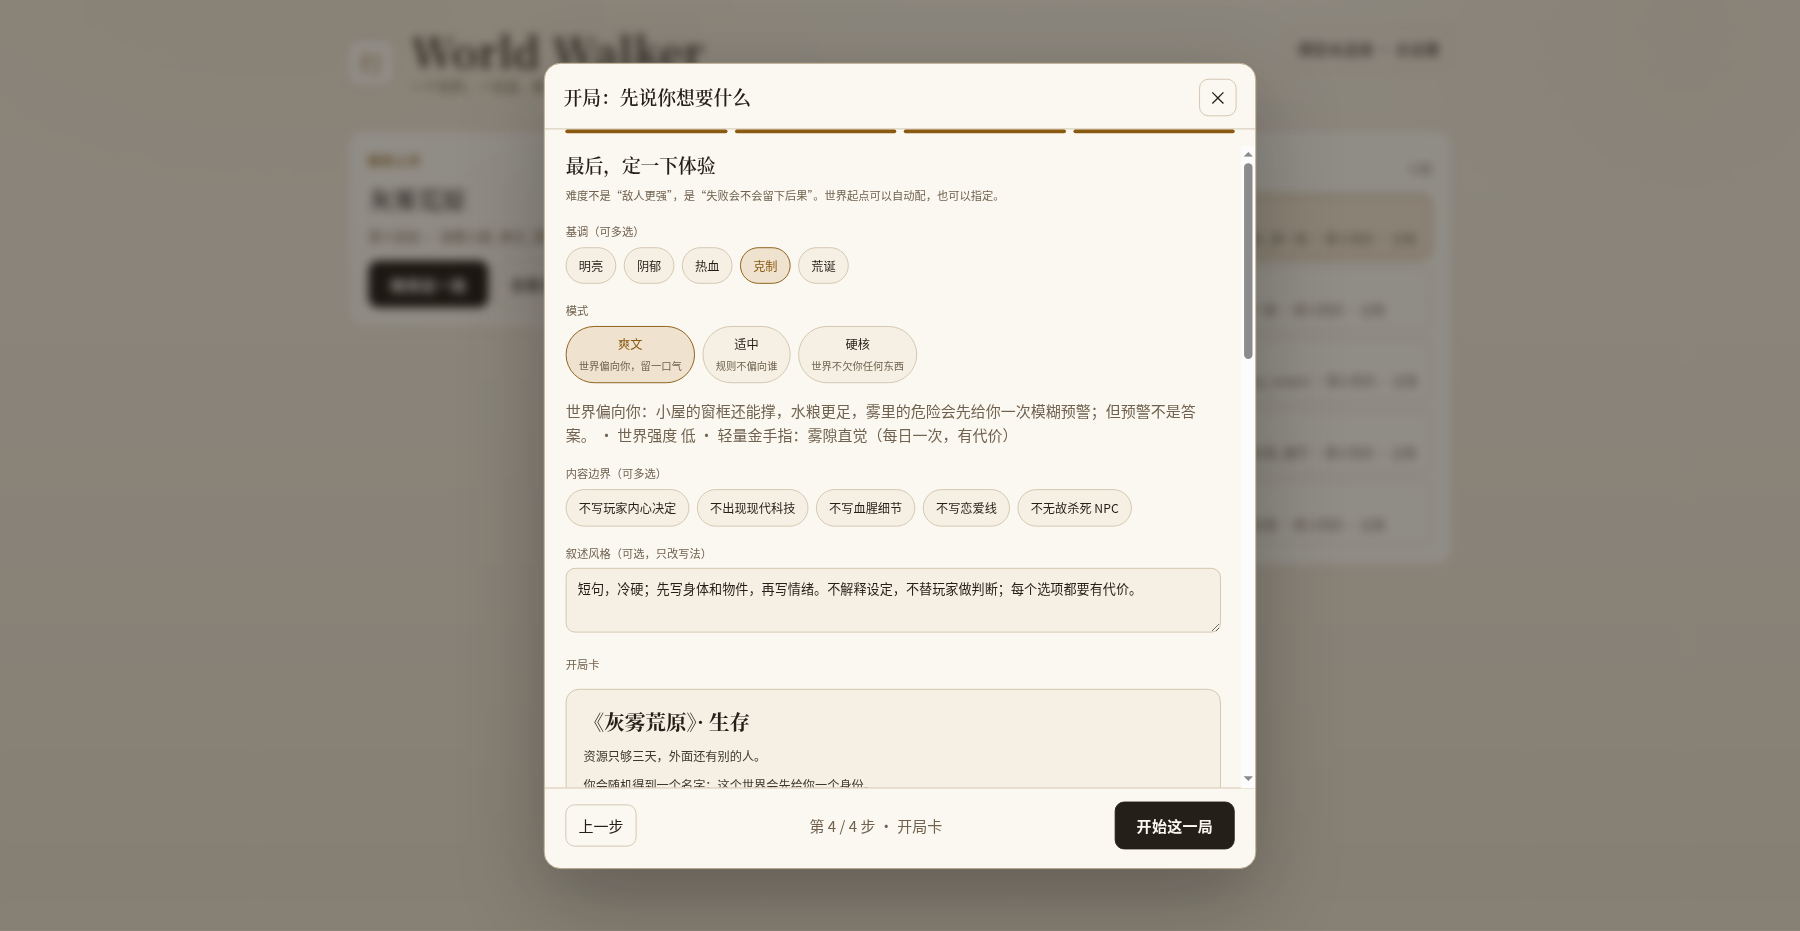
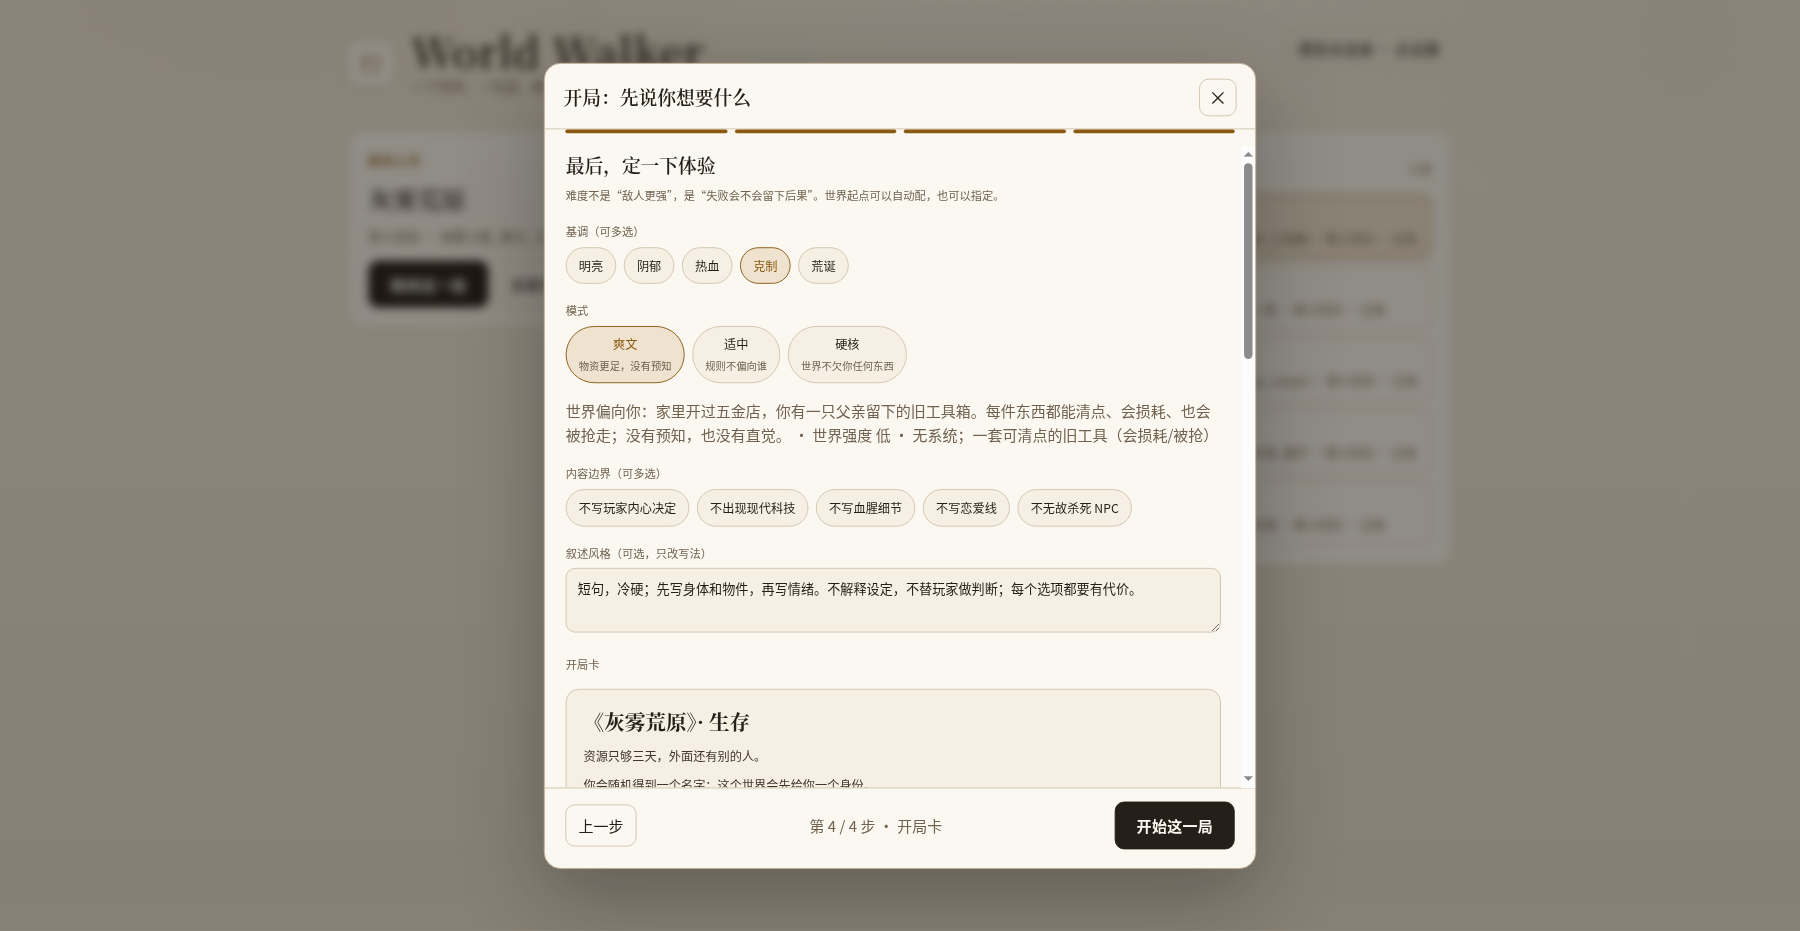
fix: replace fog talent with count-it-yourself toolkit

Changed region(s): [[0.3111, 0.4361, 0.6844, 0.4984], [0.3111, 0.3426, 0.4978, 0.4049]]

diff --git a/panel.js b/panel.js
@@ -126,7 +126,7 @@
     tones: ["明亮", "阴郁", "热血", "克制", "荒诞"],
     difficulties: ["轻松", "标准", "硬核", "铁人"],
     modes: [
-      { id: "power", label: "爽文", short: "世界偏向你", description: "起始资源更足，压力更慢，有一次轻量金手指。" },
+      { id: "power", label: "爽文", short: "世界偏向你", description: "起始物资更足；所有加成都是可清点的实物，没有预知/直觉/必中。" },
       { id: "balanced", label: "适中", short: "规则不偏向谁", description: "资源、威胁和成长按设定走。" },
       { id: "hardcore", label: "硬核", short: "世界不欠你", description: "资源更紧，死亡不可复活。" },
     ],

diff --git a/rules/modes.py b/rules/modes.py
@@ -18,11 +18,11 @@ MODE_SPECS = {
     "power": {
         "id": "power",
         "label": "爽文",
-        "short": "世界偏向你，留一口气",
-        "description": "起始资源更足，压力钟更慢，失败通常留一口气；每局有一次符合世界设定的轻量金手指。仍然会饿、会冷、会受伤。",
+        "short": "物资更足，没有预知",
+        "description": "前两类主耗材 +50%，口粮钱 +50%，物价 -15%，库存 +2，压力钟 -1；失败通常留一口气。所有好处都是可清点的实物：会吃掉、烧掉、用坏或被抢走。",
         "world_intensity": "低",
         "play_style": "爽文推进",
-        "system_strength": "轻量金手指（每局一次，有代价）",
+        "system_strength": "无系统；可清点的起始物资（会损耗/被抢）",
         "death_rule": "重伤留一口气，不直接抹掉角色",
         "resource_curve": "宽裕",
         "encounter_pressure": "低",
@@ -33,8 +33,8 @@ MODE_SPECS = {
         "clock_delta": -1,
         "price_mult": 0.85,
         "supply_delta": 2,
-        "edge": "气运偏斜：每局一次，可以把一次失败改写成‘差一点成功’，但会在现场留下痕迹。",
-        "narrative_rule": "给玩家留退路：失败先给代价和转机，不连续下死手；金手指只兑现一次，兑现后必须留下可追踪的痕迹。",
+        "edge": "起始前两类主耗材 +50%，口粮钱 +50%，物价 -15%、库存 +2；没有预知、直觉、读心或必中。",
+        "narrative_rule": "给玩家留退路：失败先给代价和转机，不连续下死手；爽文加成只能落在可清点的物资、价格、库存和耐久上，不给预知/直觉/读心/必中。",
     },
     "balanced": {
         "id": "balanced",
@@ -232,10 +232,11 @@ def apply(state: dict, bundle: dict | None = None, mode=None) -> dict:
                 continue
 
     flags = [str(f) for f in (state.get("world_flags") or [])
-             if not str(f).startswith("mode:")]
+             if not str(f).startswith("mode:")
+             and str(f) not in ("hardcore", "no_cheat", "no_respawn", "mild_cheat")]
     flags.append("mode:" + key)
     if key == "hardcore":
-        flags.extend(["no_respawn", "no_cheat"])
+        flags.extend(["hardcore", "no_respawn", "no_cheat"])
     elif key == "power":
         flags.append("mild_cheat")
     state["world_flags"] = flags

diff --git a/scripts/verify_settings.py b/scripts/verify_settings.py
@@ -69,8 +69,14 @@ def main():
         with open(fog, encoding='utf-8') as f:
             fog_bundle = json.load(f)
         fog_power = SL.build_state(fog_bundle, mode='power')
-        check('迷雾小屋·爽文模式有世界专属轻量金手指', '雾隙直觉' in (fog_power.get('mode') or {}).get('edge', ''),
-              (fog_power.get('mode') or {}).get('edge', '')[:40])
+        edge = (fog_power.get('mode') or {}).get('edge', '')
+        items = fog_power['entities']['player'].get('items') or {}
+        check('迷雾小屋·爽文模式给可清点的实用工具箱',
+              '旧五金工具箱' in edge and '4块' in edge and '16枚' in edge
+              and items.get('plank') == 4 and items.get('nails') == 16
+              and items.get('hinge') == 1 and items.get('rope') == 1
+              and items.get('lighter') == 1 and items.get('thermo') == 1,
+              '%s ｜ items=%s' % (edge[:36], sorted(items)))
 
     tmp = tempfile.mkdtemp(prefix='ww-settings-')
     for fn in files:

diff --git a/settings_loader.py b/settings_loader.py
@@ -333,7 +333,9 @@ def apply_runtime_fields(state: dict, bundle: dict) -> int:
             except ValueError as exc:
                 raise ValueError("systems 定义非法: %s" % exc)
             defs[normalized["id"]] = normalized
-    if bundle.get("gameplay"):
+    if bundle.get("gameplay") and not isinstance(state.get("mode"), dict):
+        # 模式建局时，gameplay 已经按爽文/硬核调过压力钟；
+        # 再按原始 bundle 归一化一次会把 -1/+1 抹掉（实测爽文档雾潮会回到 1）。
         state["gameplay"] = gameplay_rules.normalize(
             bundle["gameplay"], narrative=state.get("narrative"), bundle=bundle)
     if bundle.get("currency"):

diff --git a/settings/README.md b/settings/README.md
@@ -28,7 +28,7 @@ load_setting(path="settings/玄枢界.setting.json")     # 世界 + 人物 + 市
 | `places` | | 地点描写 `{地名: {desc}}` 或 `{地名: "描写"}`。走到该地时面板主舞台显示它，而不是开场那句 |
 | `lore` | | 世界书条目，**与酒馆 character_book 同形**：`keys` / `secondary_keys` / `selective` / `constant` / `insertion_order` / `content` / `comment`。`narration_context` 按关键词触发它们 |
 | `playbook` | | 玩法剧本 `{loop, input, progress, failure, beat, settlement, context}`；决定这一局"怎么玩"（详见 `docs/MCP_PLAY.md`）。缺省为自由推进 + 气血失败 |
-| `modes` | | 三模式的世界专属覆盖：`{power:{edge,description,start_items,start_gold}, balanced:{...}, hardcore:{...}}`；爽文只给轻量金手指，硬核不可复活 |
+| `modes` | | 三模式的世界专属覆盖：`{power:{edge,description,start_items,start_gold}, balanced:{...}, hardcore:{...}}`；爽文只给可清点的物资/价格/库存，且会损耗或被抢；硬核不可复活 |
 | `gameplay` | | 场景契约 `{acts, clocks, fronts, choice_policy, progression, session}`：3 幕、压力钟、隐藏前线、每场选择必须付代价。缺省退回三幕骨架，不会空白 |
 | `questlines` | | 事业线数组（stage DAG + 谓词 + 奖励）。载入时校验环与幽灵 next；未满足 `visibility` 的线保持 dormant，不占面板 |
 | `seed` | | 随机种子（可复现） |
@@ -44,7 +44,7 @@ load_setting(path="settings/玄枢界.setting.json")     # 世界 + 人物 + 市
 | `雾港.setting.json` | 调查悬疑 | 六阶（外行→传奇） | 法币 | 9 条 | 线索链与理智消耗、克苏鲁式"越查越冷" |
 | `白鹿岛.setting.json` | 全民穿越 / 海岛求生 | 六阶生存评级 + 17×5 载具阶位 | 潮币 | 首批 100 万人同时投放；普通充气救生筏即唯一初始基地（无甲板/无初始岛）；潮汐礁安全窗；系统引导/任务/活动/能力；17 大品阶×5 细分阶共 85 级 | 普通大学生在漏气救生筏上醒来；救生筏开局、手环面板、分解系、修筏、扩载具、雾墙、夜潮与邻岛主岛 |
 | `九荒.setting.json` | 修仙 / 凡人流 | 十阶（凡人→渡劫） | 碎银 | 8 条 | 普通大学生坠入古仙坟场：无系统、骨片读残念、青岚宗测骨、裂谷与失踪同学 |
-| `迷雾小屋.setting.json` | 迷雾求生 / 三模式生存 | 六阶据点稳固度 | 口粮 | 9 条 | 爽文给「雾隙直觉」轻量金手指，适中按规则，硬核无金手指/永久死亡；桦木小屋开局，补窗、烧水、守门、雾潮与邻屋 |
+| `迷雾小屋.setting.json` | 迷雾求生 / 三模式生存 | 六阶据点稳固度 | 口粮 | 9 条 | 爽文给一套可清点的旧五金工具箱（4块木板、16枚钉、1副铰链、1卷10米绳、温湿度计、约80次点火打火机），适中按规则，硬核无金手指/永久死亡；桦木小屋开局，补窗、烧水、守门、雾潮与邻屋 |
 
 七套共用同一套规则内核：战斗、交易、社交、因果、势力演化、长局记忆全部一致，
 差别在**叙事词汇、等级阶梯、经济规模、玩法循环（playbook）与事业线结构**：

diff --git a/README.md b/README.md
@@ -40,13 +40,13 @@ wg play --state my-game.json
 
 ## Knowledge library
 
-The lobby's “Start from a prefab or archive” entry offers two selectable starts: island survival in the Ten Thousand Islands Sea, and fog-cabin survival in Grey Fog Waste. Every world can be started in one of three modes: **Power** (a mild, world-specific edge and more room to recover), **Balanced** (no favour, no sabotage), and **Hardcore** (scarce resources, faster clocks, permadeath). The fog-cabin Power mode grants one daily *Fog Sense*: a direction, never a map; Hardcore has no cheat and no respawn. The prefab fixes the world, play loop, base difficulty, tone and narrative style; name, role, boundaries and what happens next still belong to the player.
+The lobby's “Start from a prefab or archive” entry offers two selectable starts: island survival in the Ten Thousand Islands Sea, and fog-cabin survival in Grey Fog Waste. Every world can be started in one of three modes: **Power** (more starting supplies and room to recover; all gains are countable goods, never precognition, intuition, mind-reading or auto-success), **Balanced** (no favour, no sabotage), and **Hardcore** (scarce resources, faster clocks, permadeath). The fog-cabin Power kit is a second-hand hardware box: 4 boards, 16 nails, 1 hinge, a 10 m rope rated 40 kg, a mechanical thermometer/hygrometer, and a windproof lighter rated for about 80 ignitions. Every piece can be consumed, broken or taken; Hardcore has no kit and no respawn. The prefab fixes the world, play loop, base difficulty, tone and narrative style; name, role, boundaries and what happens next still belong to the player.
 
 “Design archives” holds the raft, prefab-authoring and release-discipline notes. The data lives in `library/playbooks/*.json` and `library/archives/*.md` and ships with the package.
 
 ### Three modes, one rules core
 
-`load_setting(path=..., mode="power")` accepts `power`, `balanced` or `hardcore`. The mode changes starting HP and supplies, market temperature, initial clock pressure and the GM's narrative rule; the world's own `modes` block names the edge. Power is a *mild* cheat with a visible cost, not an infinite engine. The same three presets work for every setting bundle and template.
+`load_setting(path=..., mode="power")` accepts `power`, `balanced` or `hardcore`. The mode changes starting HP and supplies, market temperature, initial clock pressure and the GM's narrative rule; the world's own `modes` block names the edge. Power is extra countable stock plus softer market/clock pressure, not an ability: no precognition, intuition or auto-success. The same three presets work for every setting bundle and template.
 
 ## Use your own model
 

diff --git a/README.zh-CN.md b/README.zh-CN.md
@@ -40,7 +40,7 @@ wg play --state my-game.json
 
 ## 知识库与预制玩法
 
-大厅的“从预制玩法或档案开始”里有两套可直接选择的入口：万岛海域·海岛求生，以及灰雾荒原的迷雾小屋。每个世界都可以选三种模式：**爽文**（世界偏向你，起始资源更足、压力更慢，有一次符合世界设定的轻量金手指）、**适中**（不送不坑，按世界规则走）、**硬核**（资源更紧、压力钟更快、死亡不可复活）。迷雾小屋的爽文模式给「雾隙直觉」：每天一次，只给方向不给地图；硬核模式无金手指、无系统、永久死亡。预制包只固定世界、循环、基础难度、基调和叙述风格；名字、角色、边界和之后发生什么仍由玩家决定。
+大厅的“从预制玩法或档案开始”里有两套可直接选择的入口：万岛海域·海岛求生，以及灰雾荒原的迷雾小屋。每个世界都可以选三种模式：**爽文**（世界偏向你，起始资源更足、压力更慢；加成全是可清点的实物，没有预知、直觉、读心或必中）、**适中**（不送不坑，按世界规则走）、**硬核**（资源更紧、压力钟更快、死亡不可复活）。迷雾小屋的爽文模式给一套旧五金工具箱：4块60×15cm木板、16枚3cm钉、1副门铰链、1卷10米承重40kg尼龙绳、1只机械温湿度计、1只约80次点火的防风打火机；每件都会损耗、会被抢。硬核模式无金手指、无系统、永久死亡。预制包只固定世界、循环、基础难度、基调和叙述风格；名字、角色、边界和之后发生什么仍由玩家决定。
 
 “设计档案”里有救生筏、预制玩法规范和发布纪律三份底稿。数据在 `library/playbooks/*.json` 与 `library/archives/*.md`，随安装包一起分发。
 

diff --git a/CHANGELOG.md b/CHANGELOG.md
@@ -10,7 +10,7 @@
 ### 新增
 
 - 三模式：每个设定包/模板都可用 `爽文 / 适中 / 硬核`。同一套规则内核换模式即换世界强度：初始体力/物资、市场温度、压力钟和 GM 叙事规则一起变；爽文是有代价的轻量优势，硬核不可复活。
-- 迷雾小屋的爽文模式给世界专属轻量金手指「雾隙直觉」：每天第一次进雾时只给一个方向，不给距离、地图或答案；用后耳鸣，方向感受损。
+- 迷雾小屋的爽文模式给一套可清点的旧五金工具箱：4块60×15cm桦木板、16枚3cm铁钉、1副门铰链、1卷10米承重40kg尼龙绳、1只机械温湿度计、1只约80次点火的防风打火机。没有预知/直觉/读心/必中；每件都会损耗、会被抢。
 - 入口：大厅预制卡三按钮、开局向导第 4 步模式选择、MCP `load_setting(..., mode="power")`。
 
 ### 变更
